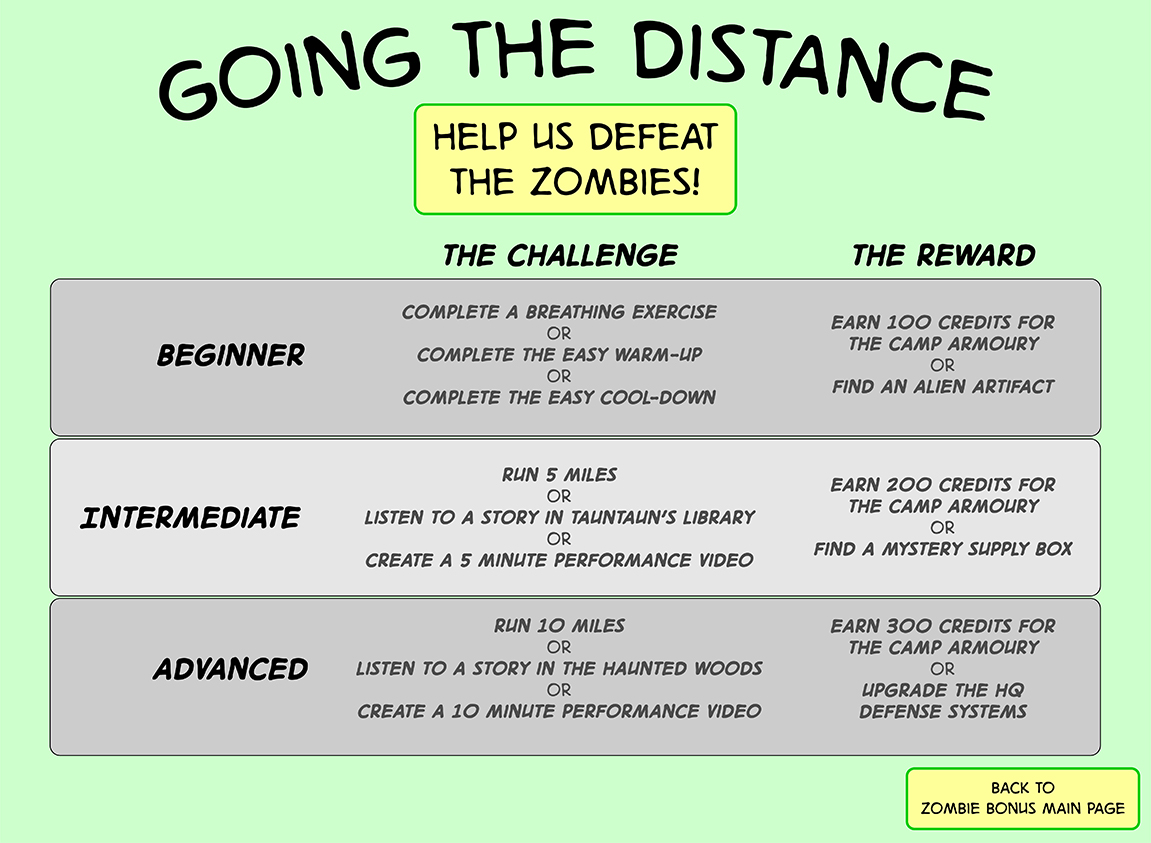
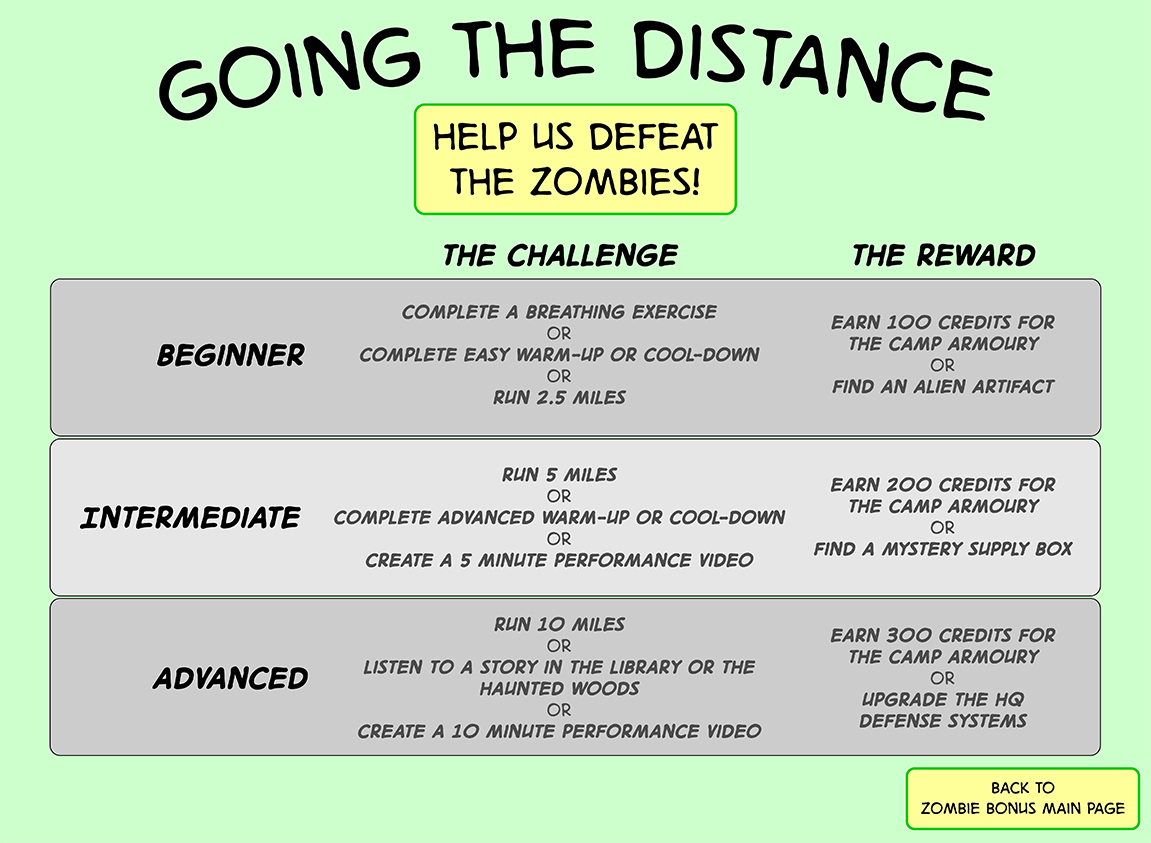
updated zombie bonus menu

diff --git a/classroom_tauntaun_zombieBonus.html b/classroom_tauntaun_zombieBonus.html
@@ -13,12 +13,14 @@
 <center><img src="assets/maps/classroom_tauntaun_zombieBonusMenu.jpg" usemap="#image-map"></center>
 
 <map name="image-map">
-    <area target="" alt="Breathing Exercise" title="Breathing Exercise" href="https://aicl2020.github.io/classroom_tauntaun_breathingExercises.html" coords="395,296,729,323" shape="rect">
-    <area target="" alt="Easy Warm Up" title="Easy Warm Up" class="lightwindow" params="lightwindow_width=960,lightwindow_height=540" href="https://dl.dropbox.com/s/hondjrqd2zkw078/tauntaun_warmUpEasy.mp4" coords="414,344,704,364" shape="rect">
-    <area target="" alt="Easy Cool Down" title="Easy Cool Down" class="lightwindow" params="lightwindow_width=960,lightwindow_height=540" href="https://dl.dropbox.com/s/viukriq3vwe407a/tauntaun_coolDownEasy.mp4" coords="402,386,720,407" shape="rect">
-    <area target="" alt="Library" title="Library" href="https://aicl2020.github.io/classroom_tauntaun_library.html" coords="358,505,758,527" shape="rect">
-    <area target="" alt="Woods" title="Woods" href="" coords="354,658,767,678" shape="rect">
-    <area target="" alt="Back to Zombies" title="Back to Zombies" href="https://aicl2020.github.io/classroom_tauntaun_zombies.html" coords="904,766,1143,832" shape="rect">
+    <area target="" alt="breathing exercise" title="breathing exercise" href="https://aicl2020.github.io/classroom_tauntaun_breathingExercises.html" coords="722,324,398,297" shape="rect">
+    <area target="" alt="easy warm up and cool down" title="easy warm up and cool down" href="https://aicl2020.github.io/classroom_tauntaun_runningExercises.html" coords="359,345,763,364" shape="rect">
+    <area target="" alt="run 2.5 miles" title="run 2.5 miles" href="https://aicl2020.github.io/classroom_tauntaun_submissions.html" coords="489,386,630,407" shape="rect">
+    <area target="" alt="run 5 miles" title="run 5 miles" href="https://aicl2020.github.io/classroom_tauntaun_rewards.html" coords="499,465,622,484" shape="rect">
+    <area target="" alt="advanced warm up and cool down" title="advanced warm up and cool down" href="https://aicl2020.github.io/classroom_tauntaun_runningExercises.html" coords="333,508,789,527" shape="rect">
+    <area target="" alt="run 10 miles" title="run 10 miles" href="https://aicl2020.github.io/classroom_tauntaun_rewards.html" coords="491,614,628,631" shape="rect">
+    <area target="" alt="listen to a story" title="listen to a story" href="https://aicl2020.github.io/classroom_tauntaun_library.html" coords="364,655,755,697" shape="rect">
+    <area target="" alt="Back to zombies" title="Back to zombies" href="https://aicl2020.github.io/classroom_tauntaun_zombies.html" coords="904,766,1139,830" shape="rect">
 </map>
 </body>
 
